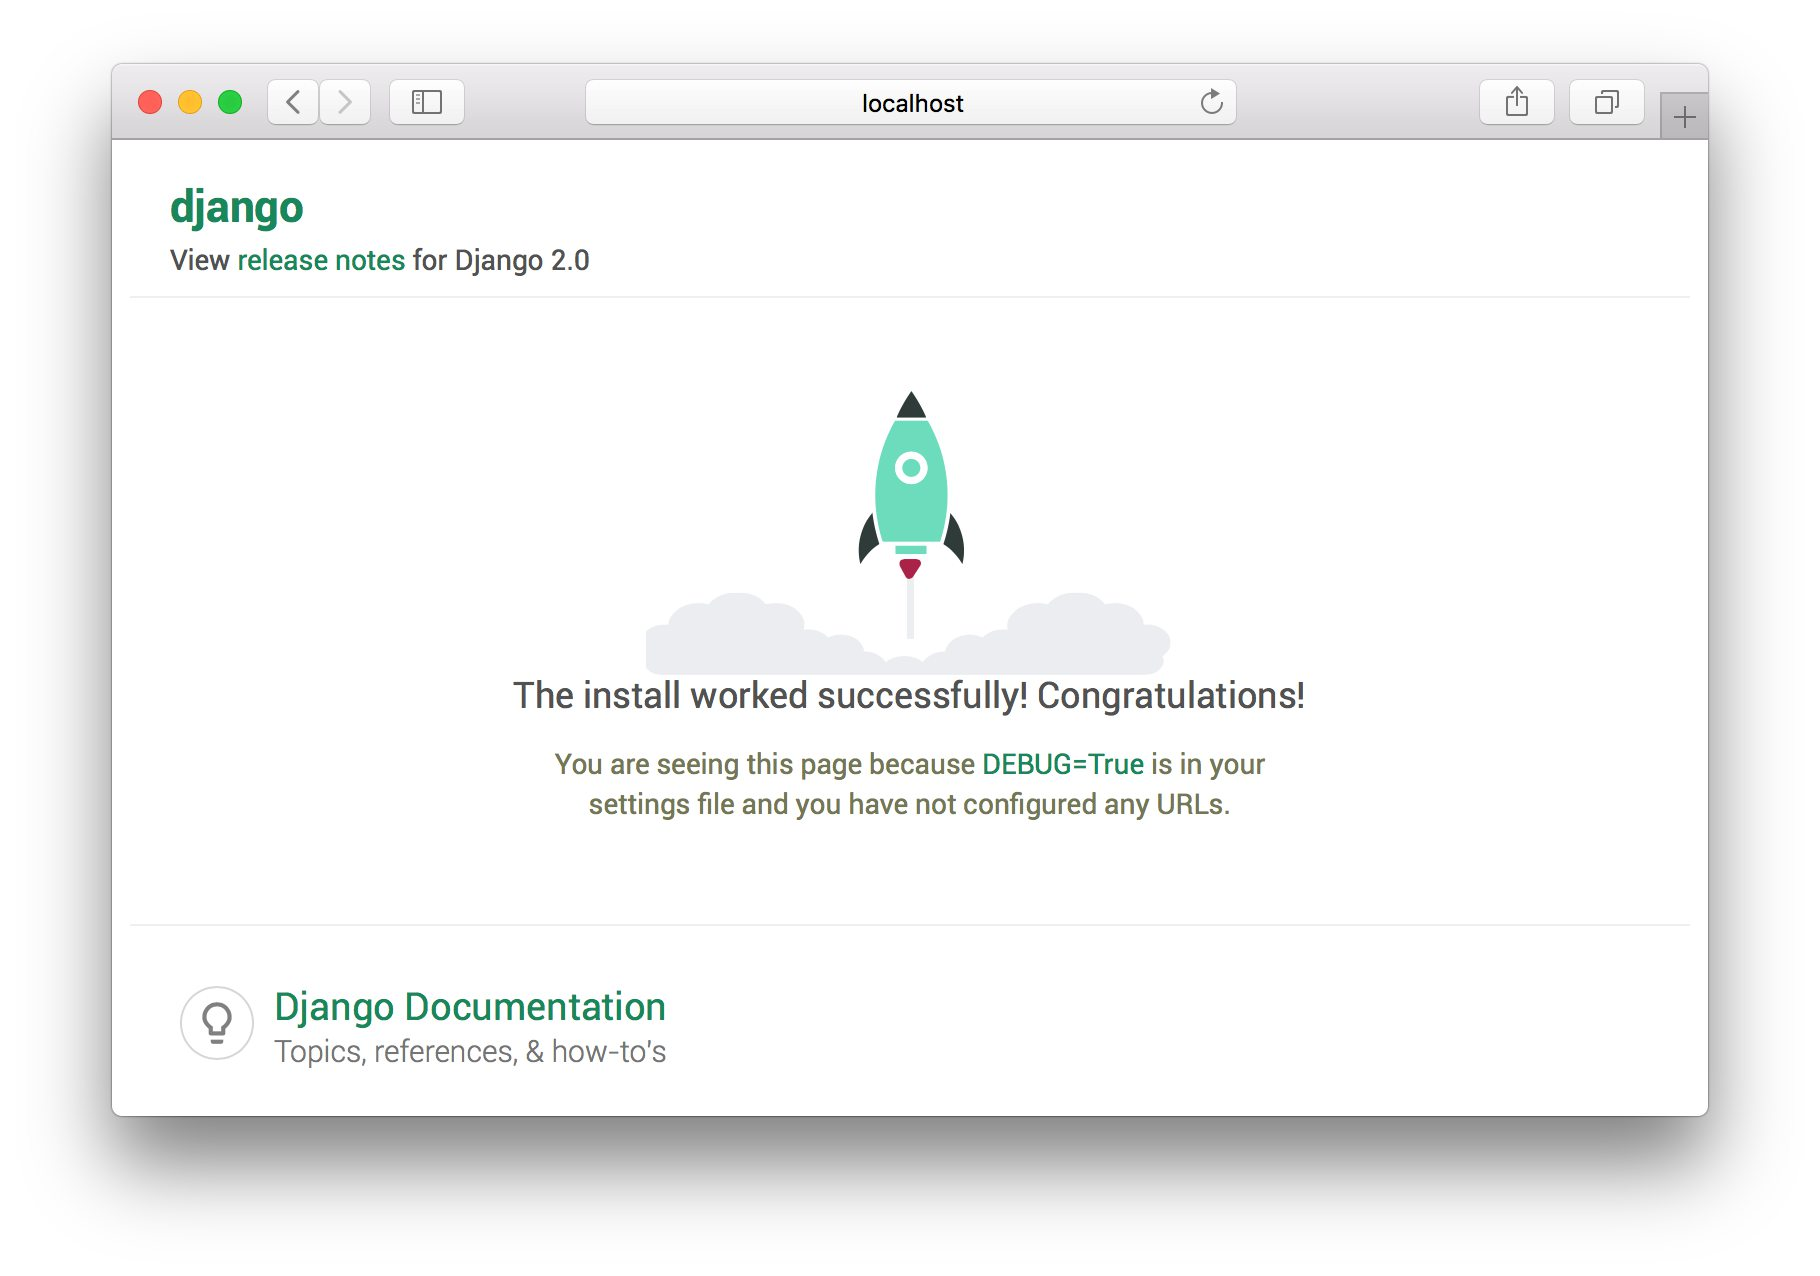
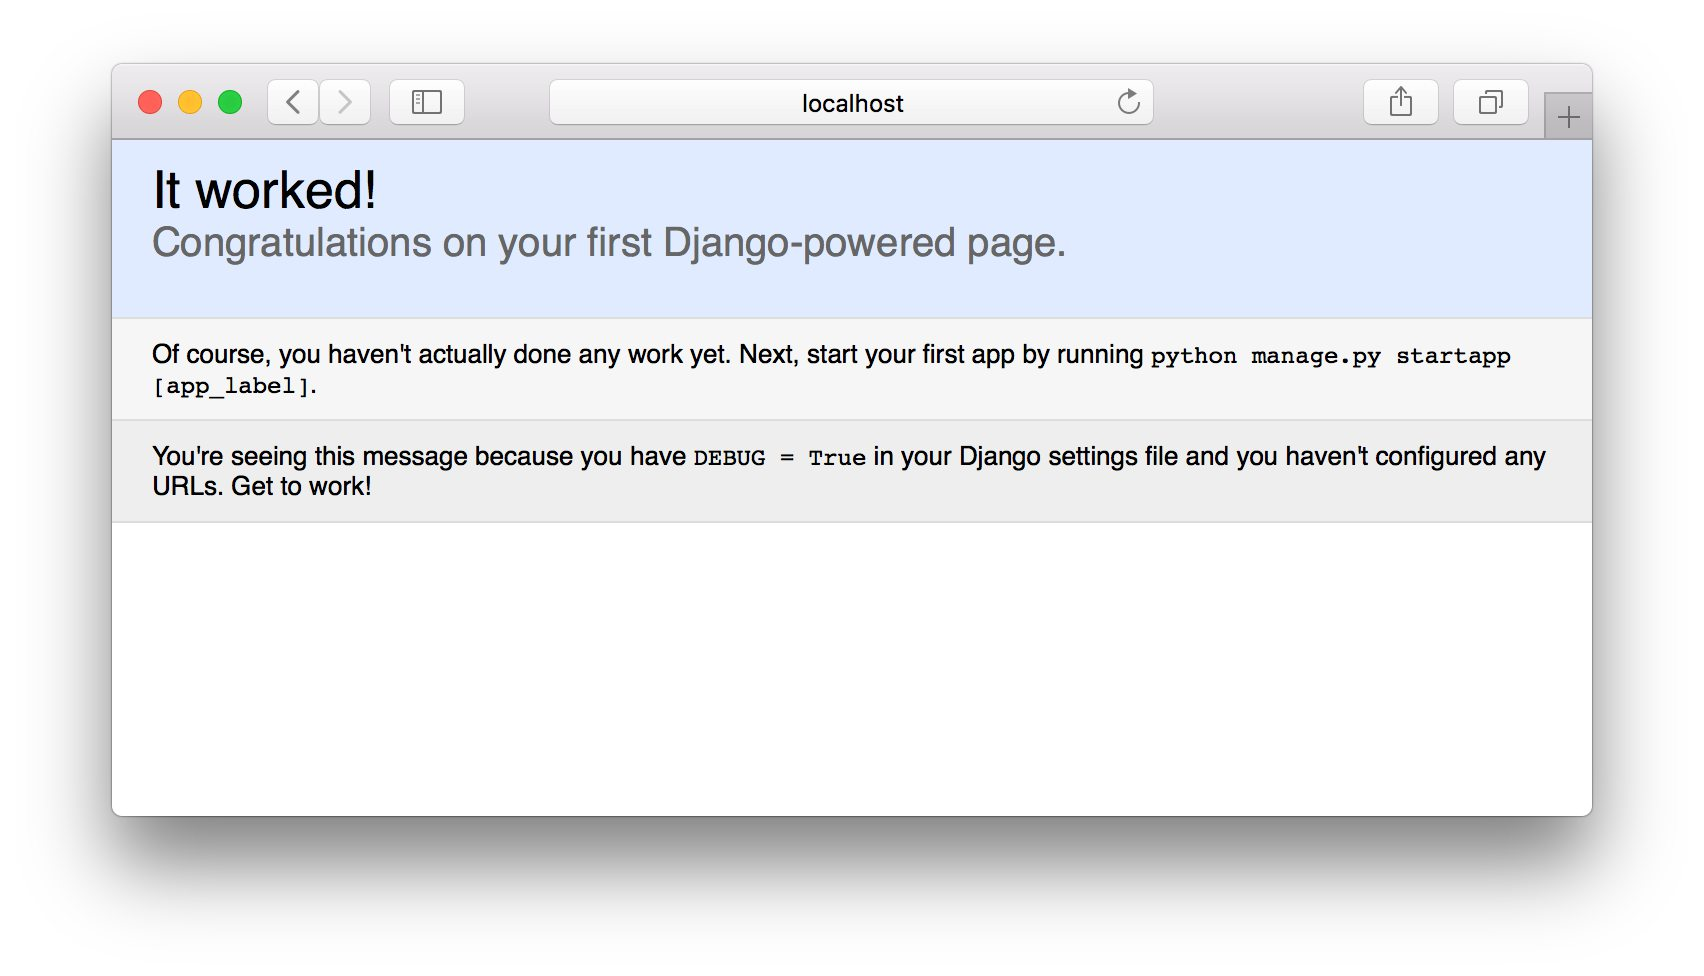
add django mysql

diff --git a/_posts/2018-01-10-django-02.md b/_posts/2018-01-10-django-02.md
@@ -1,0 +1,111 @@
+---
+title:  "Django 시작하기(2)"
+date:   2018-01-10 01:04:23
+categories: [python]
+tags: [python, django]
+comments: true
+published: true
+---
+
+이번엔 Django에 데이터베이스를 연결하여 관리자 화면을 띄어보도록 하자. Django의 디비관련 초기셋팅은 sqllite로 되어있다. 하지만 좀 더 익숙한 mysql로 디비 셋팅을 해보자. mysql은 이미 로컬에 설치 되어 있다. 
+
+#### __데이터베이스 생성 및 클라이언트 드라이버 설치__
++ mysql에 접속하여 데이터베이스를 생성하고 사용자 계정을 추가하자.
+```
+$ mysql -u root -p
+# root계정으로 로그인
+mysql> create database mysite;
+mysql> show databases;
+--------------------+
+| Database           |
++--------------------+
+| information_schema |
+| mysite             |
+| mysql              |
+| performance_schema |
+| sys                |
++--------------------+    
+mysql> grant all privileges on mysite.* to mysiteuser@'%' identified by 'mysite1234';
+# mysite디비에 아이디가 mysiteuser 비밀번호가 mysite1234인 사용자에게 모든 권한과 모든 원격지에서 접속할 권한을 부여한다
+mysql> \q
+# mysql종료
+```
+```
+$ mysql -u mysiteuser -p mysite
+# mysiteuser사용자로 mysite디비에 접속 요청
+mysql> show tables;
+Empty set (0.00 sec)
+```
+
++ mysqlclient를 설치한다.
+```
+$ pip install mysqlclient
+```
+
++ mysqlclient설치시 에러가 발생한다면 다음 명령을 실행 후 다시 설치해본다.
+```
+$ brew install mysql-connector-c
+```
+
+#### __설정 및 관리자 마이그레이션__
+
++ mysite/mysite/settings.py 편집 (74라인)
+```python
+DATABASES = {
+    'default': {
+        'ENGINE': 'django.db.backends.mysql',
+        'NAME': 'mysite',
+        'USER': 'mysiteuser',
+        'PASSWORD': 'mysite1234',
+        'HOST': 'localhost',
+        'PORT': '3306',
+    }
+}
+```
+
++ 데이터베이스 변경사항 반영
+~~~
+$ cd mysite/
+$ python manage.py migrate
+~~~
+
++ http://localhost:8000/admin 으로 접속해보자.
+![관리자](/images/20180110/01.jpg)
+
++ 관리자 계정을 생성한다.
+~~~
+python manage.py createsuperuser
+Username (leave blank to use 'lohan'): mysite
+Email address: mysite@gmail.com
+Password: 
+Password (again): 
+The password is too similar to the email address.
+Password: 
+Password (again): 
+Superuser created successfully.
+~~~
+
++ 위에서 생성한 계정으로 로그인을 시도해본다.
+![관리자](/images/20180110/02.jpg)
+
+> Django는 모든 웹프로젝트 개발 시 반드시 사용자와 사용자의 그룹 테이블이 필요하다고 가정하고 설계 되어 있다. 위 명령만 실행하면 기본적으로 관리자 계정, 그룹 관리 테이블들이 생긴다. 경험해본 결과 굉장히 잘 만들어져 있는 백오피스이다. 얼쑤~~
+
+~~~
+mysql> show tables;
++----------------------------+
+| Tables_in_mysite           |
++----------------------------+
+| auth_group                 |
+| auth_group_permissions     |
+| auth_permission            |
+| auth_user                  |
+| auth_user_groups           |
+| auth_user_user_permissions |
+| django_admin_log           |
+| django_content_type        |
+| django_migrations          |
+| django_session             |
++----------------------------+
+10 rows in set (0.00 sec)
+~~~
+

diff --git a/_posts/2018-01-08-django-01.md b/_posts/2018-01-08-django-01.md
@@ -1,5 +1,5 @@
 ---
-title:  "Python Django 시작하기"
+title:  "Django 시작하기(1)"
 date:   2018-01-08 06:04:23
 categories: [python]
 tags: [python, django]
@@ -26,21 +26,24 @@ published: true
 + 풍부한 개발 환경
 + 소스 변경사항 자동 반영
 
-> 버전은 Python3.6 Django2.0.1 이다
+> __버전은 Python2.7 Django1.9 이다__.
+> 시작은 Python3.6, Django2.0으로 계획했으나 mysql연동이 지옥이었다ㅠ. mysql은 Python2.7까지에서만 안정적으로 지원되는것 같다.
+> 
+> Django는 mysql5.0.3이상의 버전을 지원한다.
 
 #### __Django설치 및 프로젝트/애플리케이션 생성__
 + 가상환경을 만들고 진입한다.
 ```
-$ mkvirtualenv django2.0
+$ mkvirtualenv django1.9
 ```
 
-+ pip3를 이용하여 Django설치 및 버전 확인
++ pip를 이용하여 Django설치 및 버전 확인
 ```
-$ pip3 install Django
-$ python3
+$ pip install Django==1.9
+$ python
 $ >>> import django
-$ >>> django.VERSION
-$ (2, 0, 1, 'final', 0)
+$ >>> django.get_version()
+$ 1.9
 ```
 
 + django 프로젝트 생성
@@ -63,16 +66,15 @@ $ tree ./mysite
 + 애플리케이션 생성
 ```
 $ cd mysite
-$ python3 manage.py startapp polls
+$ python manage.py startapp polls
 $ tree
 .
 ├── manage.py
 ├── mysite
 │   ├── __init__.py
-│   ├── __pycache__
-│   │   ├── __init__.cpython-36.pyc
-│   │   └── settings.cpython-36.pyc
+│   ├── __init__.pyc
 │   ├── settings.py
+│   ├── settings.pyc
 │   ├── urls.py
 │   └── wsgi.py
 └── polls
@@ -90,7 +92,7 @@ polls라는 애플리케이션을 만들면 해당 디렉토리와 파일들이 
 
 + 지금까지 작업한 내용을 브라우져를 통해 확인해보자.
 ```
-$ python3 manage.py runserver 0.0.0.0
+$ python manage.py runserver 0.0.0.0
 ```
 
 위와 같이 실행하면 로그가 콘솔에 찍히고 개발서버주소도 같이 출력이 된다. 장고는 8000번 포트를 이용한다. 로그에 나온데로 브라우져를 이용해 http://127.0.0.1:8000 또는 http://localhost:8000 로 접속해 보자.
